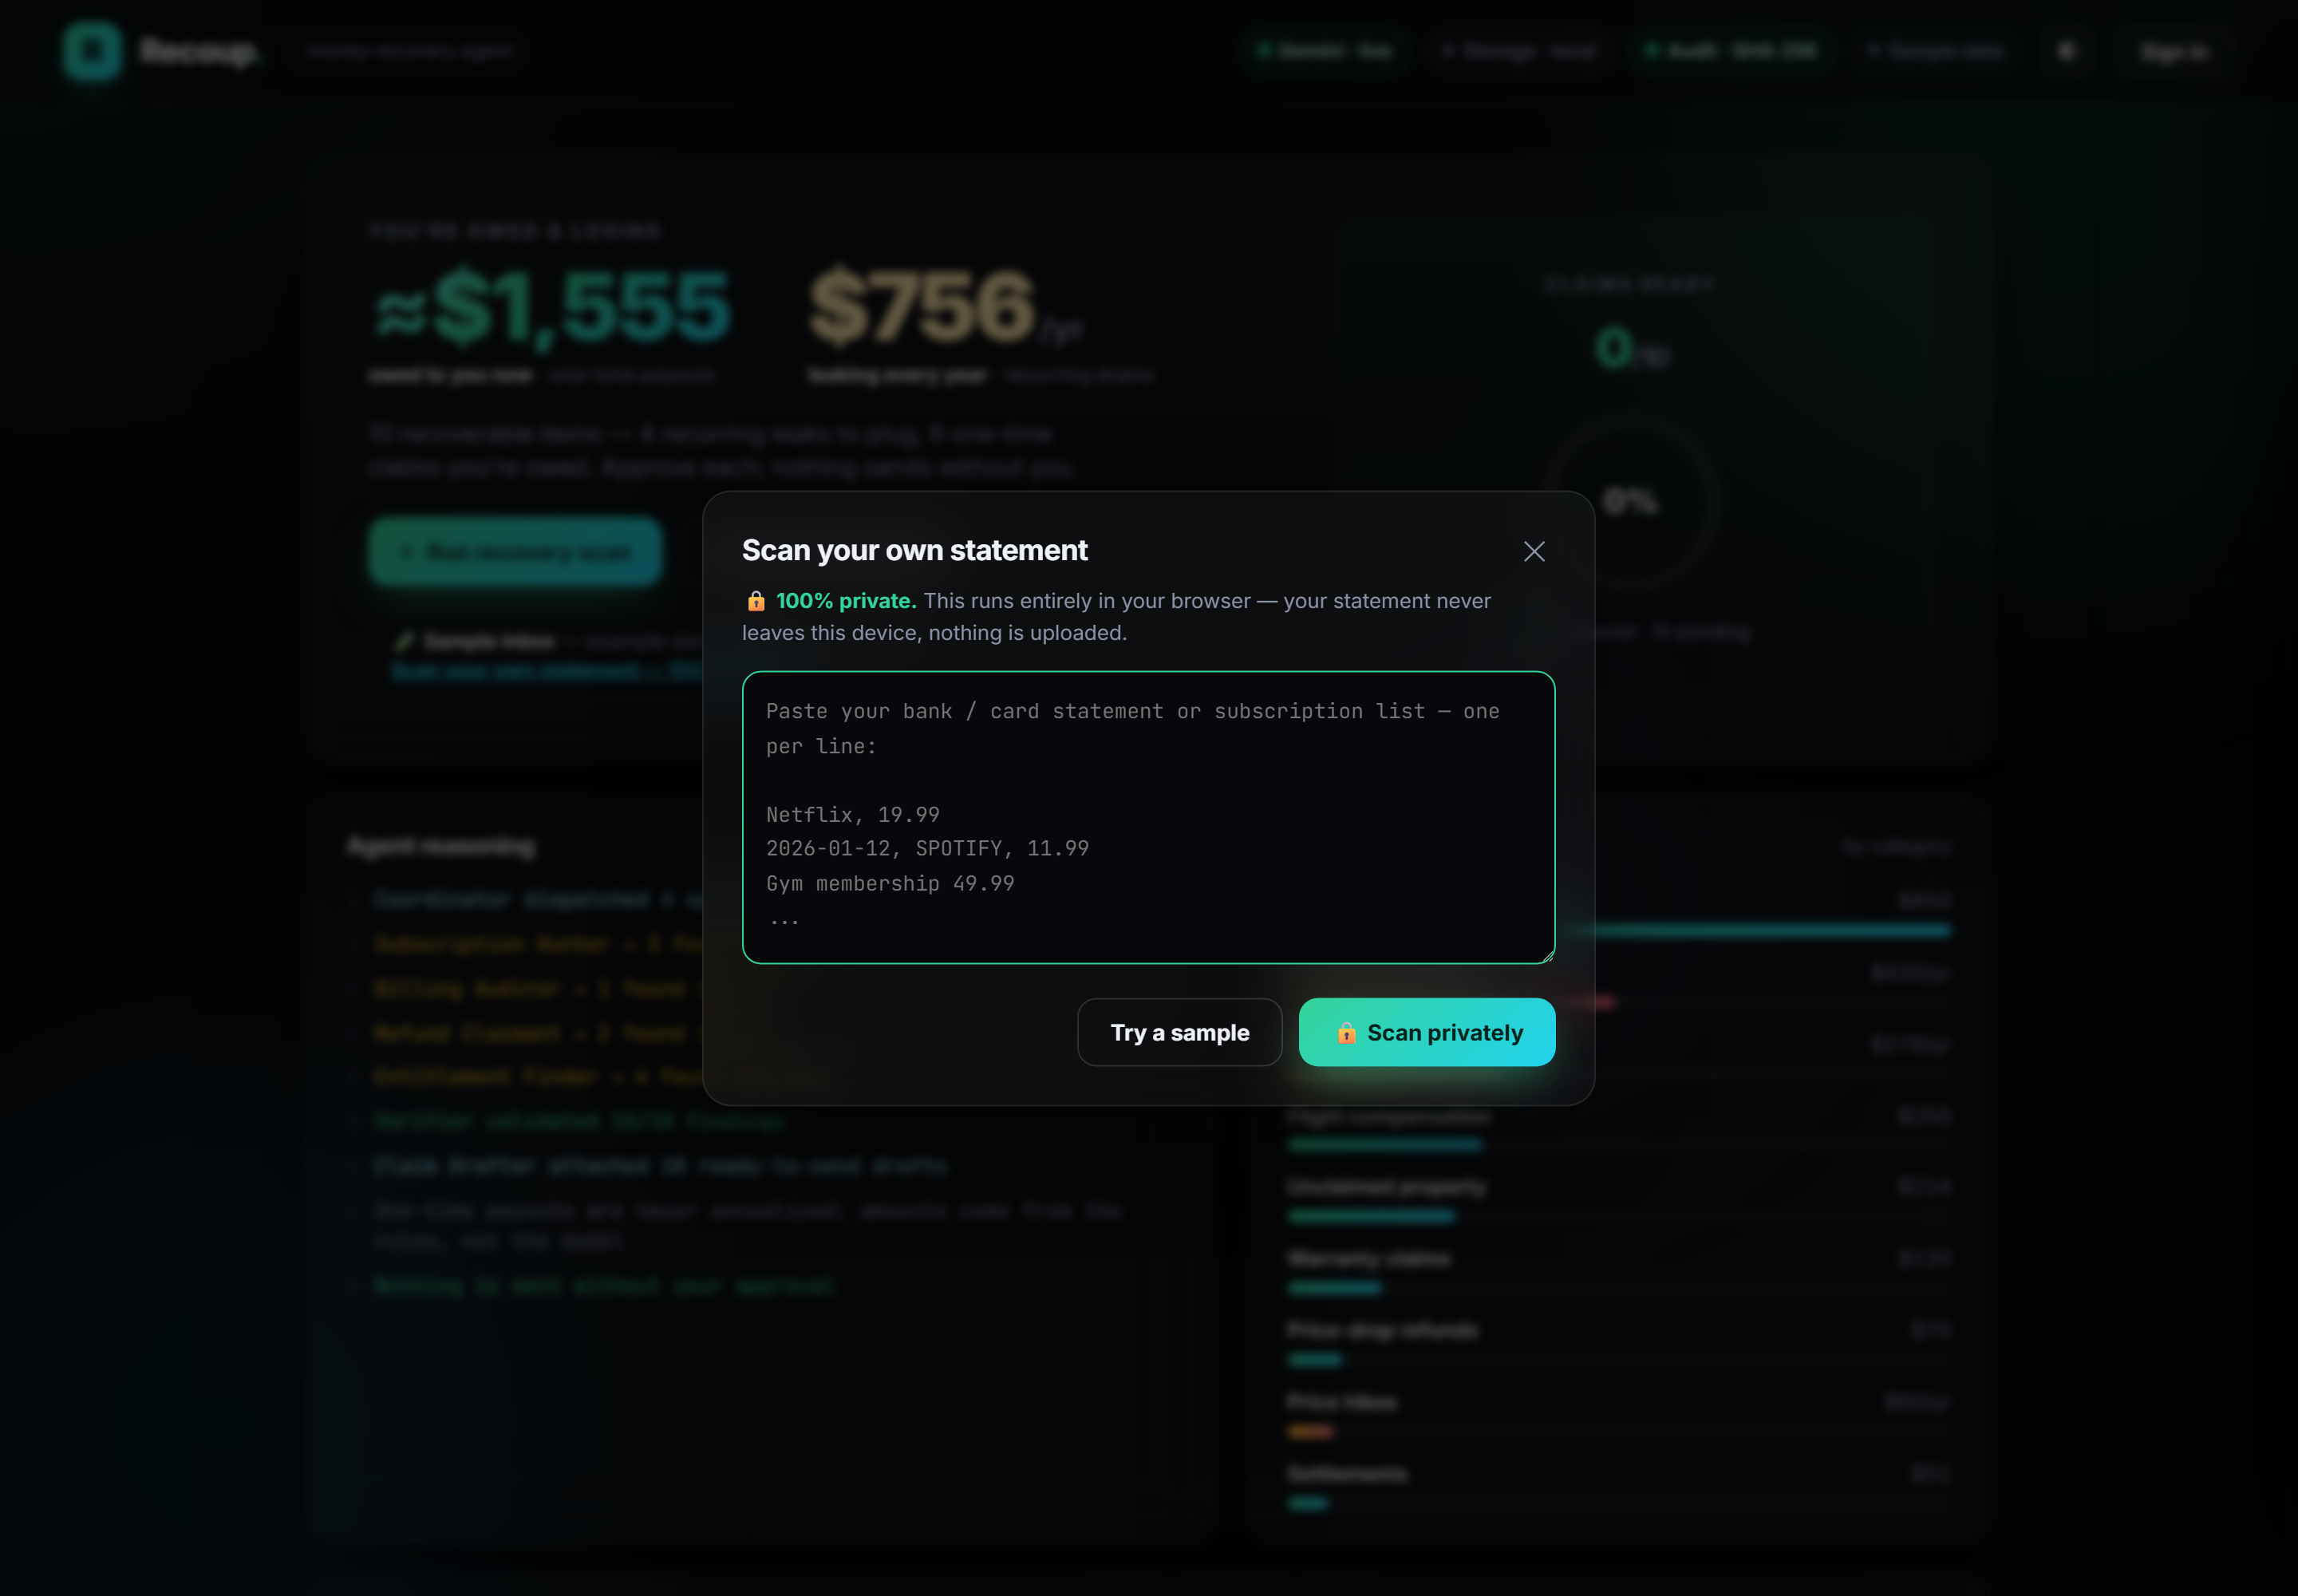
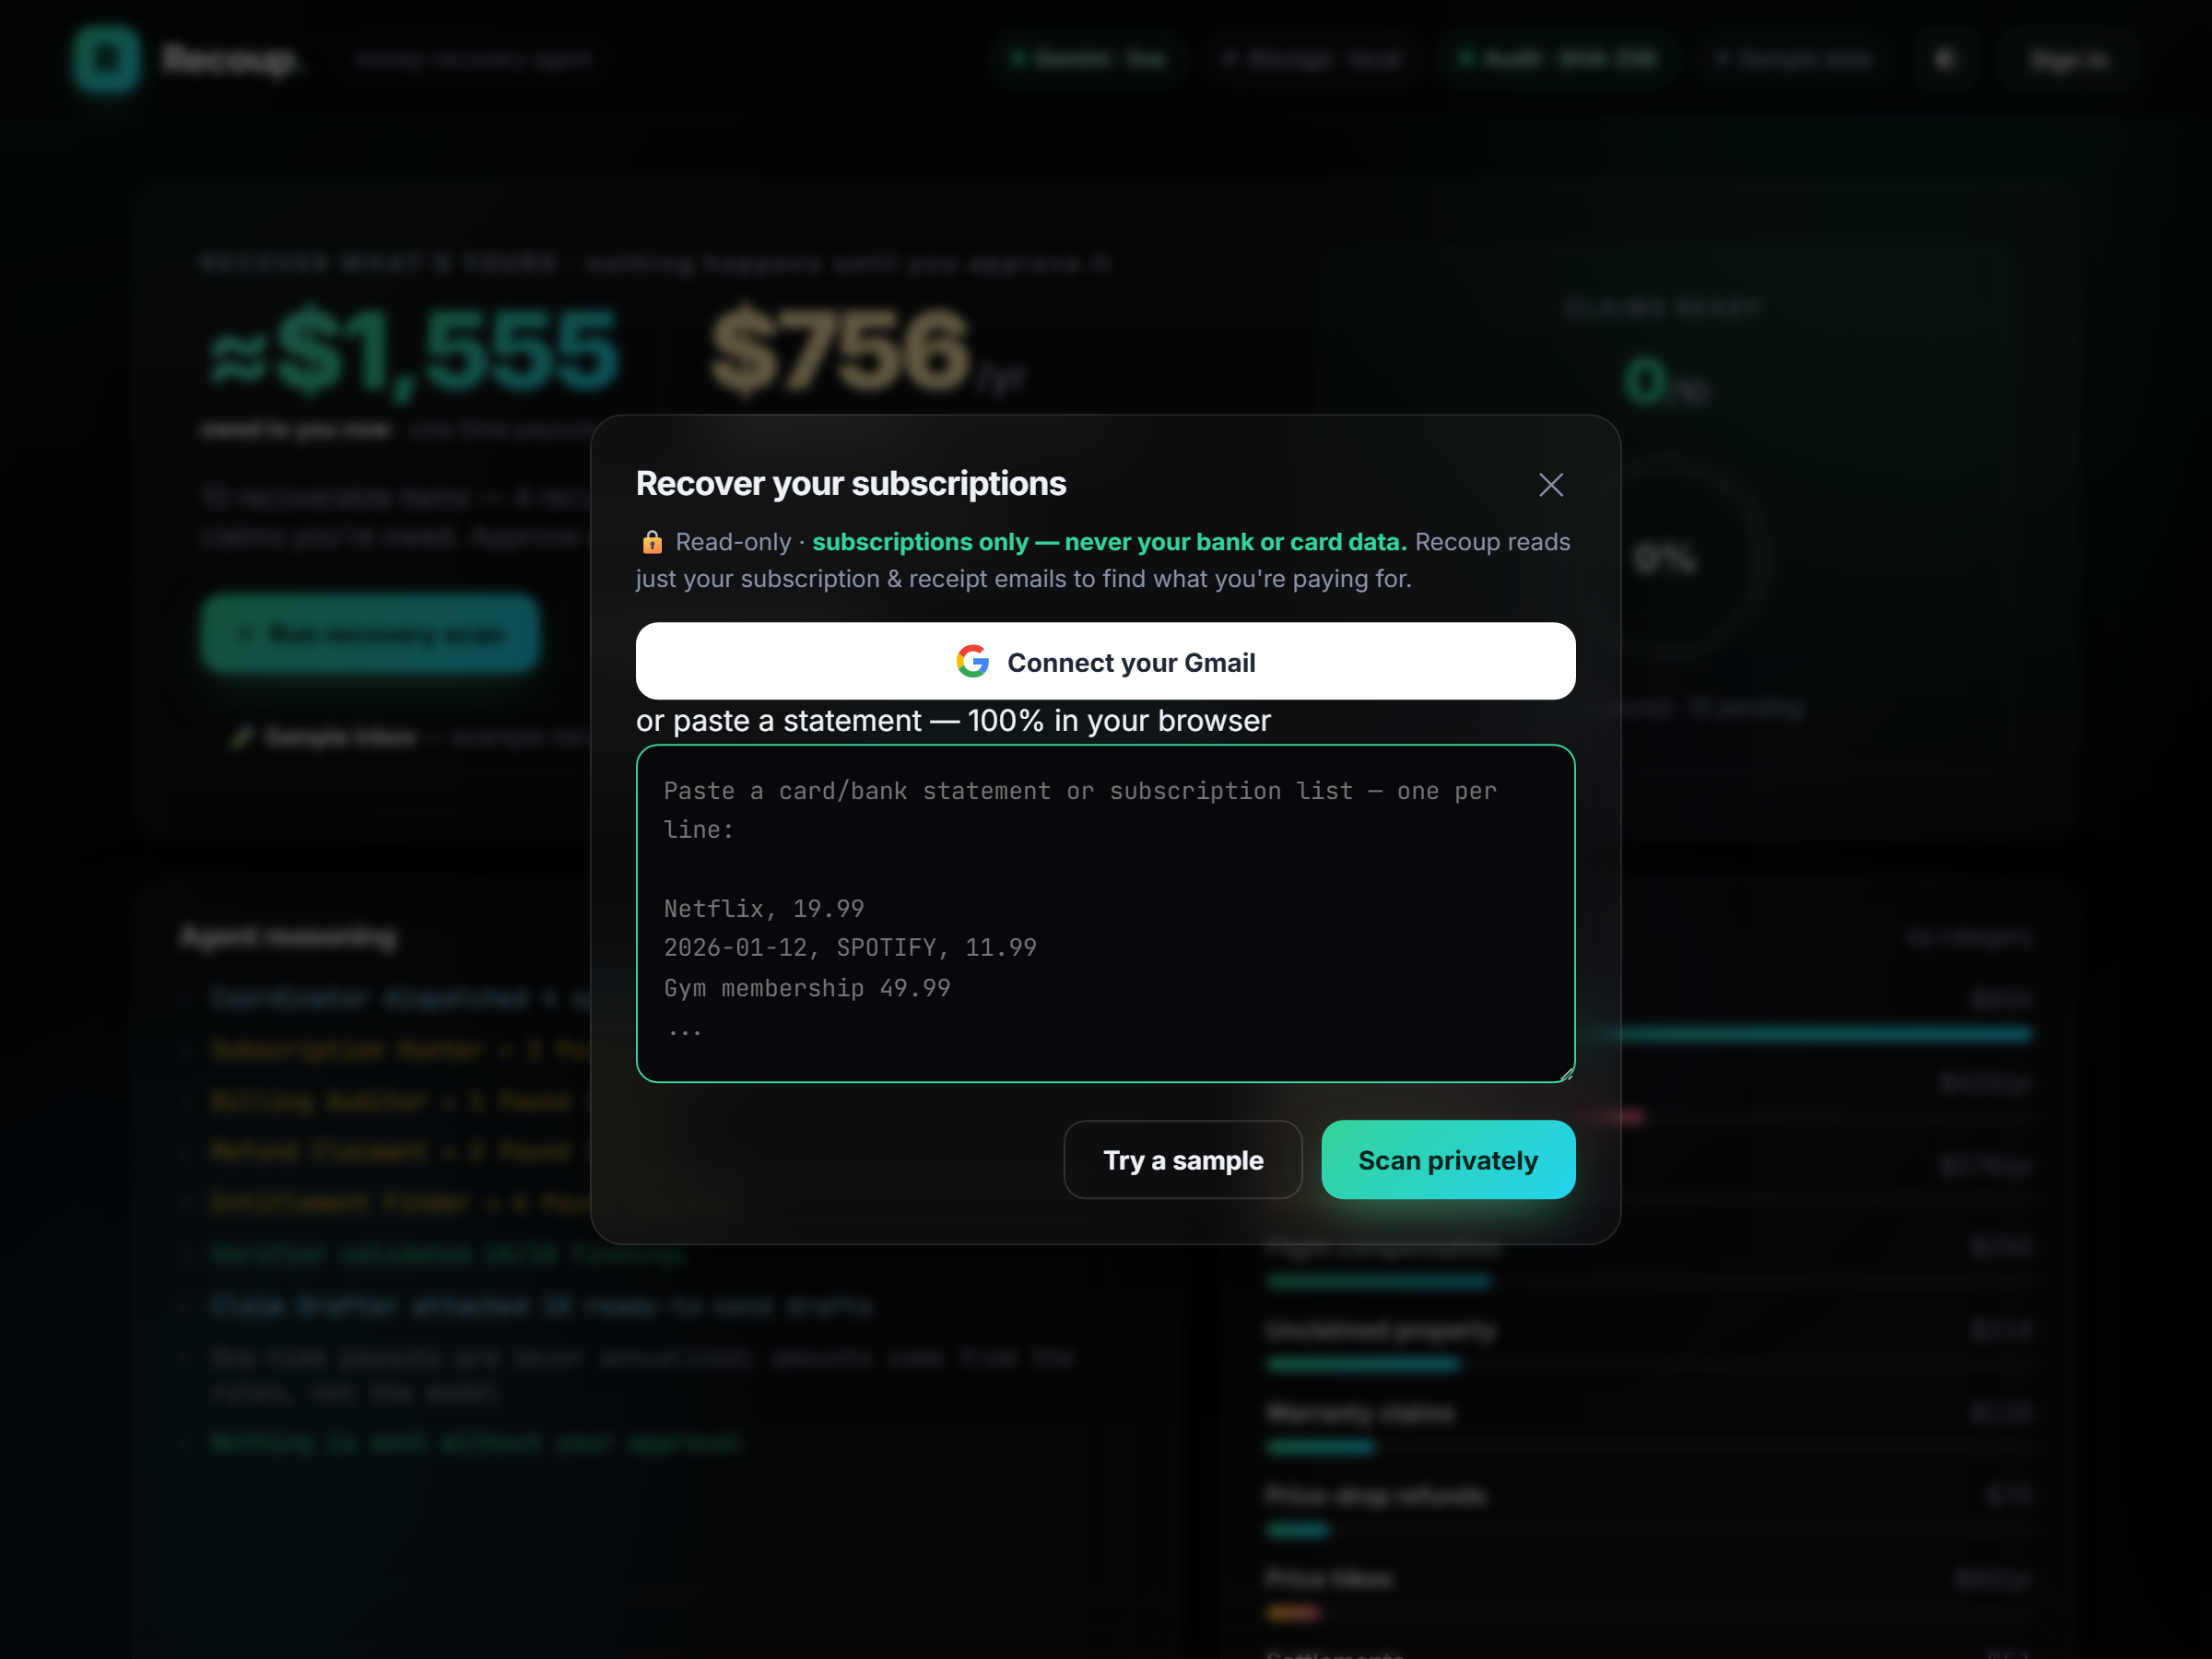
Gmail-first intake: read-only subscription detection (gmail.py, proven on real inbox), Connect-Gmail OAuth flow + endpoints, Gmail-first modal; in-browser paste kept as offline fallback

diff --git a/index.html b/index.html
@@ -108,12 +108,17 @@
 <!-- scan-your-own-data modal -->
 <div class="modal-scrim" id="scan-scrim"></div>
 <div class="modal glass" id="scan-modal" role="dialog" aria-modal="true" aria-labelledby="scan-title">
-  <div class="modal-head"><h3 id="scan-title">Scan your own statement</h3><button class="x" id="scan-x" aria-label="Close">✕</button></div>
-  <p class="modal-sub">🔒 <b>100% private.</b> This runs entirely in your browser — your statement never leaves this device, nothing is uploaded.</p>
-  <textarea id="scan-input" class="scan-input" spellcheck="false" aria-label="Paste your statement" placeholder="Paste your bank / card statement or subscription list — one per line:&#10;&#10;Netflix, 19.99&#10;2026-01-12, SPOTIFY, 11.99&#10;Gym membership 49.99&#10;..."></textarea>
+  <div class="modal-head"><h3 id="scan-title">Recover your subscriptions</h3><button class="x" id="scan-x" aria-label="Close">✕</button></div>
+  <p class="modal-sub">🔒 Read-only · <b>subscriptions only — never your bank or card data.</b> Recoup reads just your subscription &amp; receipt emails to find what you're paying for.</p>
+  <button class="btn gbtn full" id="gmail-connect" type="button">
+    <svg width="18" height="18" viewBox="0 0 48 48" aria-hidden="true"><path fill="#EA4335" d="M24 9.5c3.5 0 6.6 1.2 9.1 3.6l6.8-6.8C35.9 2.4 30.3 0 24 0 14.6 0 6.5 5.4 2.6 13.2l7.9 6.2C12.4 13.5 17.7 9.5 24 9.5z"/><path fill="#4285F4" d="M46.5 24.5c0-1.6-.1-3.1-.4-4.5H24v9h12.7c-.5 3-2.2 5.5-4.7 7.2l7.3 5.7C43.8 37.9 46.5 31.8 46.5 24.5z"/><path fill="#FBBC05" d="M10.5 28.4c-.5-1.5-.8-3.1-.8-4.9s.3-3.4.8-4.9l-7.9-6.2C1 15.6 0 19.7 0 24s1 8.4 2.6 11.6l7.9-6.2z"/><path fill="#34A853" d="M24 48c6.3 0 11.6-2.1 15.5-5.6l-7.3-5.7c-2 1.4-4.7 2.3-8.2 2.3-6.3 0-11.6-4-13.5-9.6l-7.9 6.2C6.5 42.6 14.6 48 24 48z"/></svg>
+    Connect your Gmail
+  </button>
+  <div class="divider">or paste a statement — 100% in your browser</div>
+  <textarea id="scan-input" class="scan-input" spellcheck="false" aria-label="Paste your statement" placeholder="Paste a card/bank statement or subscription list — one per line:&#10;&#10;Netflix, 19.99&#10;2026-01-12, SPOTIFY, 11.99&#10;Gym membership 49.99&#10;..."></textarea>
   <div class="modal-actions">
     <button class="btn btn-ghost" id="scan-sample">Try a sample</button>
-    <button class="btn btn-primary" id="scan-run">🔒 Scan privately</button>
+    <button class="btn btn-primary" id="scan-run">Scan privately</button>
   </div>
 </div>
 

diff --git a/app.js b/app.js
@@ -97,7 +97,7 @@
     const dn = $("#demo-note");
     if (dn) dn.innerHTML = S._real
       ? '🔒 <b>Your data</b> — scanned privately in your browser. Nothing was uploaded. <button class="linklike2" id="open-scan">Re-scan →</button>'
-      : '🧪 <b>Sample inbox</b> — example data, $0 of this is yours yet. <button class="linklike2" id="open-scan">Scan your own statement — 100% private →</button>';
+      : '🧪 <b>Sample inbox</b> — example data, $0 of this is yours yet. <button class="linklike2" id="open-scan">Recover your own subscriptions →</button>';
     const ob = $("#open-scan"); if (ob) ob.onclick = openScan;
     updateReadyUI();
   }
@@ -369,6 +369,7 @@
     const ssc = $("#scan-scrim"); if (ssc) ssc.onclick = closeScan;
     const sr = $("#scan-run"); if (sr) sr.onclick = runScan;
     const sm = $("#scan-sample"); if (sm) sm.onclick = () => { const i = $("#scan-input"); if (i && window.RecoupScan) i.value = window.RecoupScan.SAMPLE; };
+    const gc = $("#gmail-connect"); if (gc) gc.onclick = () => { if (API) location.href = API + "/api/gmail/start"; else toast("Connect Gmail goes live with the backend — paste a statement below to try it now (100% private)."); };
     const ob = $("#open-scan"); if (ob) ob.onclick = openScan;
   }
 

diff --git a/styles.css b/styles.css
@@ -246,6 +246,8 @@ body{
 .modal-actions{display:flex;justify-content:flex-end;gap:10px;margin-top:14px}
 .linklike2{background:none;border:none;color:var(--cyan);font:inherit;font-weight:700;cursor:pointer;padding:0;white-space:nowrap}
 .linklike2:hover{text-decoration:underline}
+.gbtn{gap:10px;background:#fff;color:#1f2733;border:none;font-weight:700}
+.gbtn:hover{background:#eef1f6}
 
 @media(max-width:860px){
   .hero,.grid-2{grid-template-columns:1fr}

diff --git a/backend/app/gmail.py b/backend/app/gmail.py
@@ -1,0 +1,118 @@
+"""Recoup — Gmail subscription intake (READ-ONLY, subscriptions only).
+
+Given a Gmail access token with the `gmail.readonly` scope, this reads
+purchase/subscription emails and extracts recurring SERVICES — never bank or card
+data, only what the inbox already shows. The sender→service match is the same
+heuristic proven on real inboxes (Netflix, giffgaff, Slack, Anthropic, Mistral,
+LinkedIn, Spotify, Adobe, …). Read-only: it never sends, deletes, or modifies mail.
+
+Activates when a token is present; otherwise inert (the app falls back to the
+in-browser paste scan). Amounts are TYPICAL estimates flagged for user
+confirmation unless a receipt body yields the real figure.
+"""
+from __future__ import annotations
+
+import re
+
+# domain fragment -> (display name, typical monthly £/$, category)
+KNOWN_SERVICES = {
+    "netflix": ("Netflix", 12.99),
+    "spotify": ("Spotify", 11.99),
+    "giffgaff": ("giffgaff mobile", 10.00),
+    "slack": ("Slack", 8.75),
+    "anthropic": ("Anthropic (Claude)", 18.00),
+    "mistral": ("Mistral AI", 14.99),
+    "linkedin": ("LinkedIn Premium", 29.99),
+    "adobe": ("Adobe Creative Cloud", 59.99),
+    "youtube": ("YouTube Premium", 12.99),
+    "disney": ("Disney+", 7.99),
+    "audible": ("Audible", 7.99),
+    "nytimes": ("NYTimes", 17.00),
+    "dropbox": ("Dropbox", 9.99),
+    "notion": ("Notion", 8.00),
+    "github": ("GitHub", 4.00),
+    "openai": ("OpenAI / ChatGPT", 20.00),
+    "amazon": ("Amazon Prime", 8.99),
+    "apple": ("Apple / iCloud", 2.99),
+    "googleone|google storage": ("Google One", 1.99),
+    "patreon": ("Patreon", 6.00),
+    "hellofresh": ("HelloFresh", 40.00),
+}
+_MONEY = re.compile(r"[£$€]\s?(\d+(?:[.,]\d{2})?)")
+
+
+def _match(sender: str, subject: str) -> tuple[str, float] | None:
+    blob = (sender + " " + subject).lower()
+    for frag, svc in KNOWN_SERVICES.items():
+        if any(f in blob for f in frag.split("|")):
+            return svc
+    return None
+
+
+def detect(messages: list[dict]) -> list[dict]:
+    """messages: [{sender, subject, snippet}] -> deduped subscription findings."""
+    seen: dict[str, dict] = {}
+    for m in messages:
+        hit = _match(m.get("sender", ""), m.get("subject", ""))
+        if not hit:
+            continue
+        name, est = hit
+        body = f"{m.get('subject','')} {m.get('snippet','')}"
+        found = _MONEY.search(body)
+        amount = round(float(found.group(1).replace(",", ".")), 2) if found else est
+        confident_amt = bool(found)
+        trial = "trial" in body.lower()
+        lapsing = any(w in body.lower() for w in ("cancel", "update payment", "lose access", "expired", "failed"))
+        if name not in seen:
+            seen[name] = {
+                "name": name, "monthly": amount, "amount_known": confident_amt,
+                "trial": trial, "lapsing": lapsing, "evidence": m.get("subject", "")[:120],
+            }
+    return list(seen.values())
+
+
+def to_findings(subs: list[dict]) -> list[dict]:
+    """Map detected subscriptions to Recoup's action/finding shape."""
+    out = []
+    for i, s in enumerate(subs, 1):
+        annual = round(s["monthly"] * 12, 2)
+        note = "free trial — will auto-convert" if s["trial"] else "payment lapsing" if s["lapsing"] else "active recurring charge"
+        conf = 0.9 if s["amount_known"] else 0.72
+        out.append({
+            "id": f"gm_{i}", "kind": "dead_subscription",
+            "title": f"Review {s['name']} subscription",
+            "amount": annual, "cadence": "yearly", "currency": "$",
+            "amount_label": f"${annual:,.0f}/yr", "unit_note": f"${s['monthly']:.2f}/mo" + ("" if s["amount_known"] else " (est.)"),
+            "evidence": f"From your Gmail: \"{s['evidence']}\" — {note}",
+            "rule": "dead_sub", "confidence": conf, "confidence_band": "high" if conf >= 0.85 else "medium",
+            "caveat": "Confirm you've stopped using it before cancelling." if not s["trial"] else "Cancel before the trial converts to avoid the charge.",
+            "claim_url": None, "agent": "sub_hunter", "agent_name": "Subscription Hunter",
+            "verify": {"ok": True, "checks": [
+                {"label": "matched a known subscription sender", "ok": True},
+                {"label": "amount from receipt" if s["amount_known"] else "amount estimated (confirm)", "ok": s["amount_known"]},
+                {"label": "from your own Gmail", "ok": True},
+            ]},
+            "draft": f"Subject: Cancel {s['name']}\n\nPlease cancel my {s['name']} subscription effective immediately and confirm in writing, including any proration owed.",
+            "approvalState": "pending", "status": "drafted", "source": "gmail",
+        })
+    return out
+
+
+# --- live read (activates with an OAuth token) ---
+def available(token: str | None) -> bool:
+    return bool(token)
+
+
+def fetch_subscription_emails(token: str, max_results: int = 60) -> list[dict]:
+    """Read-only Gmail API: list purchase/subscription emails -> [{sender,subject,snippet}]."""
+    import httpx
+    H = {"Authorization": f"Bearer {token}"}
+    q = "category:purchases OR subject:(subscription OR receipt OR renew OR invoice OR membership) newer_than:1y"
+    base = "https://gmail.googleapis.com/gmail/v1/users/me/messages"
+    ids = httpx.get(base, headers=H, params={"q": q, "maxResults": max_results}, timeout=15).json().get("messages", [])
+    out = []
+    for it in ids[:max_results]:
+        msg = httpx.get(f"{base}/{it['id']}", headers=H, params={"format": "metadata", "metadataHeaders": ["From", "Subject"]}, timeout=15).json()
+        headers = {h["name"].lower(): h["value"] for h in msg.get("payload", {}).get("headers", [])}
+        out.append({"sender": headers.get("from", ""), "subject": headers.get("subject", ""), "snippet": msg.get("snippet", "")})
+    return out

diff --git a/backend/app/main.py b/backend/app/main.py
@@ -212,3 +212,39 @@ async def auth_logout():
     resp = JSONResponse(content={"ok": True})
     resp.delete_cookie(COOKIE)
     return resp
+
+
+# ---- Gmail subscription intake (read-only; subscriptions only, never bank data) ----
+_GMAIL_FINDINGS: dict[str, list] = {}
+
+
[email redacted]("/api/gmail/start")
+async def gmail_start():
+    url = auth.google_auth_url(state="gmail_" + uuid.uuid4().hex[:8], gmail=True)
+    if not url:
+        return JSONResponse(status_code=503, content={"ok": False, "error": "Google OAuth not configured — set GOOGLE_OAUTH_CLIENT_ID"})
+    return RedirectResponse(url)
+
+
[email redacted]("/api/gmail/callback")
+async def gmail_cb(code: str):
+    from . import gmail as gmailmod
+    try:
+        tok = auth.google_exchange(code, redirect_path="/api/gmail/callback")
+        access = tok.get("access_token")
+        if not access:
+            return RedirectResponse("/?gmail=err")
+        msgs = gmailmod.fetch_subscription_emails(access)
+        findings = gmailmod.to_findings(gmailmod.detect(msgs))
+    except Exception:
+        return RedirectResponse("/?gmail=err")
+    sess = auth.create_session("gmail-user")
+    _GMAIL_FINDINGS[sess] = findings
+    resp = RedirectResponse("/?gmail=ok")
+    _set_session(resp, sess)
+    return resp
+
+
[email redacted]("/api/gmail/findings")
+async def gmail_findings(request: Request, ro_session: str = Cookie(default="")):
+    return _ok(request, findings=_GMAIL_FINDINGS.get(ro_session, []))

diff --git a/backend/app/auth.py b/backend/app/auth.py
@@ -107,18 +107,33 @@ def verify_captcha(token: str, ip: str = "") -> bool:
 
 
 # ---- Google OAuth ----
-def google_auth_url(state: str) -> str | None:
+def google_auth_url(state: str, gmail: bool = False) -> str | None:
     s = get_settings()
     if not s.google_oauth_client_id:
         return None
     from urllib.parse import urlencode
+    scope, redirect = "openid email profile", "/api/auth/google/callback"
+    if gmail:  # read-only subscription emails only
+        scope += " https://www.googleapis.com/auth/gmail.readonly"
+        redirect = "/api/gmail/callback"
     q = urlencode({
         "client_id": s.google_oauth_client_id,
-        "redirect_uri": f"{s.base_url.rstrip('/')}/api/auth/google/callback",
-        "response_type": "code", "scope": "openid email profile",
-        "state": state, "access_type": "online", "prompt": "select_account",
+        "redirect_uri": f"{s.base_url.rstrip('/')}{redirect}",
+        "response_type": "code", "scope": scope,
+        "state": state, "access_type": "online", "prompt": "consent select_account",
     })
     return f"https://accounts.google.com/o/oauth2/v2/auth?{q}"
+
+
+def google_exchange(code: str, redirect_path: str = "/api/auth/google/callback") -> dict:
+    """Exchange an auth code for tokens (access_token used for the Gmail read)."""
+    s = get_settings()
+    import httpx
+    return httpx.post("https://oauth2.googleapis.com/token", data={
+        "code": code, "client_id": s.google_oauth_client_id,
+        "client_secret": s.google_oauth_client_secret,
+        "redirect_uri": f"{s.base_url.rstrip('/')}{redirect_path}",
+        "grant_type": "authorization_code"}, timeout=10).json()
 
 
 def google_callback(code: str) -> str | None: